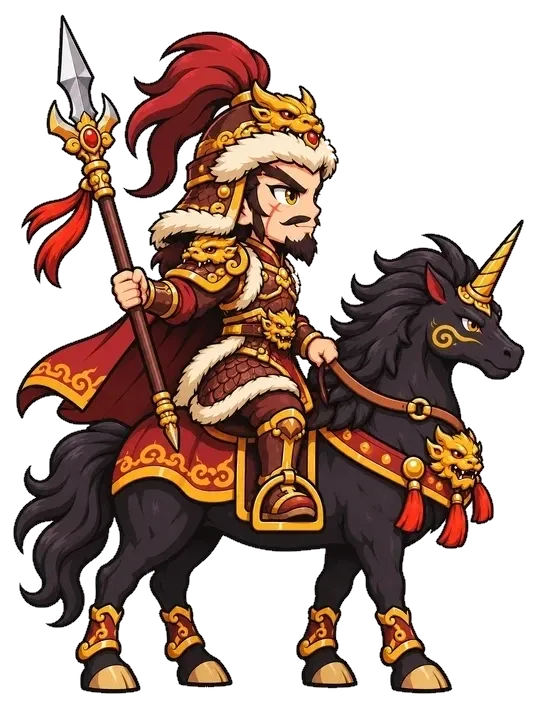
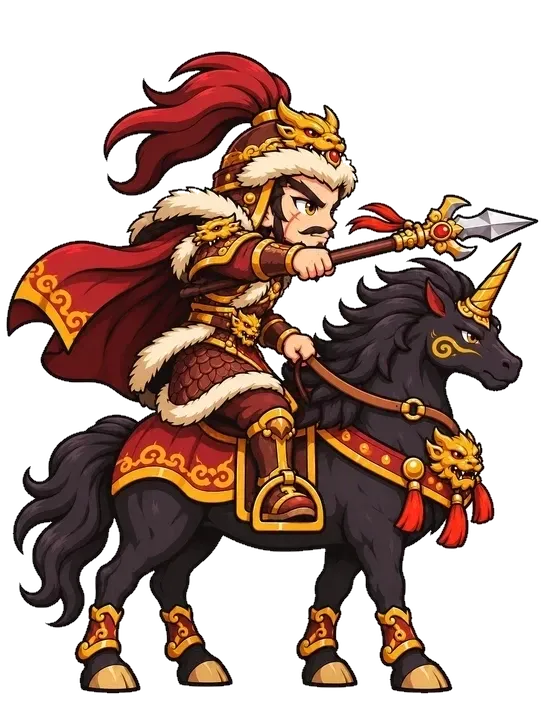
Ve lai 7 dang that cho Truong Khue (1 chan tren ngua)

diff --git a/art/poses/hmeta.js b/art/poses/hmeta.js
@@ -1,1 +1,1 @@
-window.HPOSE = {"loichantu": {"H": 1201.8, "gnd": [660, 1395], "top": 0.015}, "thohanhton": {"H": 1196.0, "gnd": [512, 1387], "top": 0.033}, "thaiatchannhan": {"H": 1185.3, "gnd": [573, 1335], "top": 0.079}, "thancongbao": {"H": 1182.4, "gnd": [657, 1321], "top": 0.072}, "longnu": {"H": 1303.7, "gnd": [567, 1398], "top": 0.039}, "kimgiac": {"H": 1298.8, "gnd": [578, 1309], "top": 0.0}, "tieubachlong": {"H": 1265.8, "gnd": [517, 1412], "top": 0.018}, "thaibachkimtinh": {"H": 1135.9, "gnd": [604, 1321], "top": 0.106}, "culinhthan": {"H": 1254.2, "gnd": [575, 1394], "top": 0.026}, "hoangphongquai": {"H": 1087.4, "gnd": [479, 1364], "top": 0.026}, "khuongtanha": {"H": 1377.4, "gnd": [570, 1429], "top": 0.008}, "trieucongminh": {"H": 1368.7, "gnd": [572, 1420], "top": 0.007}, "bachcot": {"H": 1371.6, "gnd": [574, 1423], "top": 0.008}, "bodetosu": {"H": 1372.5, "gnd": [563, 1426], "top": 0.01}, "tranguyentu": {"H": 1327.9, "gnd": [551, 1403], "top": 0.025}, "hoangphiho": {"H": 1167.9, "gnd": [519, 1358], "top": 0.064}, "dienmau": {"H": 1308.5, "gnd": [543, 1398], "top": 0.035}, "thanhnguutinh": {"H": 1287.2, "gnd": [502, 1387], "top": 0.043}, "longvuong": {"H": 1262.0, "gnd": [591, 1418], "top": 0.01}, "dangthienngoc": {"H": 1246.5, "gnd": [535, 1378], "top": 0.066}, "kimtra": {"H": 1344.4, "gnd": [540, 1409], "top": 0.017}, "hachhung": {"H": 1286.2, "gnd": [533, 1387], "top": 0.046}, "thodia": {"H": 1212.5, "gnd": [479, 1341], "top": 0.066}, "giaochu": {"H": 1034.0, "gnd": [506, 1437], "top": 0.191}, "khongtuyen": {"H": 1276.5, "gnd": [568, 1423], "top": 0.019}, "nhiendang": {"H": 1207.6, "gnd": [467, 1367], "top": 0.026}, "thaisu": {"H": 1356.1, "gnd": [556, 1418], "top": 0.015}, "hoangmi": {"H": 1227.0, "gnd": [528, 1367], "top": 0.072}, "vanthu": {"H": 1276.5, "gnd": [538, 1395], "top": 0.015}, "quynhtieu": {"H": 1240.6, "gnd": [517, 1367], "top": 0.064}, "hoangthienhoa": {"H": 1375.5, "gnd": [555, 1432], "top": 0.012}, "viho": {"H": 1386.1, "gnd": [563, 1435], "top": 0.006}, "thachco": {"H": 1165.9, "gnd": [445, 1347], "top": 0.102}, "giaochu_s2": {"H": 1038, "gnd": [516, 1447], "top": 0.04}, "thailaoquan_s2": {"H": 1107, "gnd": [533, 1439], "top": 0.113}, "thailaoquan": {"H": 1106.8, "gnd": [534, 1439], "top": 0.171}, "hongquan": {"H": 1275.5, "gnd": [522, 1412], "top": 0.018}, "nguyenthuy": {"H": 1010.7, "gnd": [551, 1423], "top": 0.198}, "ngochoang": {"H": 1327.9, "gnd": [519, 1417], "top": 0.021}, "dilac": {"H": 1022.4, "gnd": [516, 1278], "top": 0.135}, "quangthanh": {"H": 1329.9, "gnd": [502, 1423], "top": 0.014}, "kimlinh": {"H": 1304.6, "gnd": [510, 1412], "top": 0.012}, "chanvu": {"H": 1107.7, "gnd": [557, 1338], "top": 0.086}, "vuongmau": {"H": 1330.8, "gnd": [502, 1417], "top": 0.011}, "phohien": {"H": 1318.2, "gnd": [465, 1418], "top": 0.003}, "daibang": {"H": 1179.5, "gnd": [489, 1361], "top": 0.04}, "ngocdinh": {"H": 1336.7, "gnd": [556, 1423], "top": 0.007}, "hoangbao": {"H": 1303.7, "gnd": [471, 1429], "top": 0.022}, "bachnhan": {"H": 1330.8, "gnd": [550, 1423], "top": 0.011}, "hattu": {"H": 1327.0, "gnd": [494, 1401], "top": 0.019}, "moctra": {"H": 1167.9, "gnd": [553, 1344], "top": 0.081}, "nganggiac": {"H": 1266.8, "gnd": [563, 1384], "top": 0.035}, "loicong": {"H": 1243.5, "gnd": [529, 1375], "top": 0.036}, "ngoctho": {"H": 1308.5, "gnd": [528, 1415], "top": 0.006}, "maonhat": {"H": 1223.2, "gnd": [535, 1360], "top": 0.028}, "linhcam": {"H": 1172.7, "gnd": [642, 1361], "top": 0.072}, "ngokhong": {"H": 1359.9, "gnd": [580, 1400], "top": 0.019}, "batgioi": {"H": 1476.0, "gnd": [615, 1421], "top": 0.017}, "nata": {"H": 1447.8, "gnd": [560, 1418], "top": 0.0}, "ngumavuong": {"H": 1306.8, "gnd": [620, 1410], "top": 0.012}, "honghainhi": {"H": 1260.4, "gnd": [560, 1405], "top": 0.0}, "quanam": {"H": 1144.3, "gnd": [560, 1440], "top": 0.0}, "datky": {"H": 1354.9, "gnd": [560, 1415], "top": 0.008}, "duongtang": {"H": 1434.5, "gnd": [570, 1410], "top": 0.012}, "duongtien": {"H": 1069.7, "gnd": [520, 1295], "top": 0.066}, "vantieu": {"H": 1401.3, "gnd": [560, 1415], "top": 0.006}, "satang": {"H": 1417.9, "gnd": [560, 1415], "top": 0.012}, "thietphien": {"H": 1369.8, "gnd": [560, 1416], "top": 0.015}, "litinh": {"H": 1353.2, "gnd": [560, 1416], "top": 0.007}, "hangnga": {"H": 1343.3, "gnd": [560, 1415], "top": 0.008}, "nuoa": {"H": 1243.5, "gnd": [532, 1361], "top": 0.023}, "tiepdan": {"H": 1124.2, "gnd": [545, 1359], "top": 0.075}, "chuande": {"H": 1261.0, "gnd": [458, 1425], "top": 0.039}, "nhulai": {"H": 1248.4, "gnd": [543, 1441], "top": 0.029}, "phuchy": {"H": 1245.5, "gnd": [496, 1381], "top": 0.04}, "thannong": {"H": 1194.1, "gnd": [496, 1358], "top": 0.066}, "hienvien": {"H": 1241.6, "gnd": [601, 1423], "top": 0.021}, "dabao": {"H": 1320.2, "gnd": [510, 1398], "top": 0.012}, "lucap": {"H": 1328.9, "gnd": [498, 1421], "top": 0.014}, "namcuc": {"H": 1113.6, "gnd": [599, 1299], "top": 0.052}, "diatang": {"H": 1133.0, "gnd": [581, 1319], "top": 0.073}, "lucnhi": {"H": 1300.8, "gnd": [500, 1398], "top": 0.025}, "cuukho": {"H": 1355.1, "gnd": [528, 1434], "top": 0.011}, "thanhsu": {"H": 1150.4, "gnd": [607, 1364], "top": 0.059}, "bachtuong": {"H": 1220.3, "gnd": [511, 1375], "top": 0.028}, "cuulinh": {"H": 1290.1, "gnd": [506, 1392], "top": 0.017}, "cuudau": {"H": 1291.1, "gnd": [535, 1397], "top": 0.03}, "bichtieu": {"H": 1245.5, "gnd": [501, 1370], "top": 0.037}, "magia": {"H": 1187.3, "gnd": [471, 1344], "top": 0.069}, "angiao": {"H": 1277.5, "gnd": [532, 1406], "top": 0.018}, "duongnham": {"H": 1256.1, "gnd": [448, 1387], "top": 0.036}, "vienhong": {"H": 1336.7, "gnd": [525, 1417], "top": 0.018}, "xichtinh": {"H": 1269.7, "gnd": [468, 1392], "top": 0.044}, "thanhhu": {"H": 1217.3, "gnd": [520, 1349], "top": 0.054}, "culuuton": {"H": 1240.6, "gnd": [481, 1381], "top": 0.047}, "linhcat": {"H": 1293.0, "gnd": [497, 1389], "top": 0.006}, "bilam": {"H": 1318.2, "gnd": [562, 1415], "top": 0.015}, "donghoa": {"H": 1295.0, "gnd": [532, 1403], "top": 0.015}, "vantrungtu": {"H": 1219.3, "gnd": [454, 1364], "top": 0.035}, "vuonglinhquan": {"H": 1358.0, "gnd": [575, 1423], "top": 0.012}, "hoangthientuong": {"H": 1312.4, "gnd": [532, 1406], "top": 0.028}, "nhuychantien": {"H": 1230.0, "gnd": [509, 1375], "top": 0.052}, "holuc": {"H": 1270.7, "gnd": [522, 1398], "top": 0.048}, "diadung": {"H": 1212.5, "gnd": [526, 1366], "top": 0.065}, "nhentinh": {"H": 1307.6, "gnd": [449, 1417], "top": 0.019}, "tenguu": {"H": 1149.5, "gnd": [603, 1324], "top": 0.079}, "ngaobinh": {"H": 1213.5, "gnd": [546, 1381], "top": 0.019}, "vodang": {"H": 1264.9, "gnd": [648, 1398], "top": 0.023}, "hongquan_s2": {"H": 1278.5, "gnd": [520, 1412], "top": 0.019}, "nguyenthuy_s2": {"H": 1105, "gnd": [551, 1447], "top": 0.106}, "nuoa_s2": {"H": 1247.4, "gnd": [530, 1361], "top": 0.022}, "tiepdan_s2": {"H": 1125.2, "gnd": [544, 1359], "top": 0.091}, "chuande_s2": {"H": 1269, "gnd": [460, 1423], "top": 0.029}, "nhulai_s2": {"H": 1248, "gnd": [540, 1447], "top": 0.028}, "loctinh": {"H": 1191.2, "gnd": [502, 1338], "top": 0.051}, "dalong": {"H": 1223.2, "gnd": [480, 1364], "top": 0.052}, "cuuvi": {"H": 1160.1, "gnd": [462, 1352], "top": 0.068}, "hoangsu": {"H": 1199.9, "gnd": [532, 1392], "top": 0.017}, "dethinh": {"H": 1356.1, "gnd": [560, 1435], "top": 0.011}, "thanhmao": {"H": 1300.8, "gnd": [588, 1432], "top": 0.011}, "laongoan": {"H": 1256.1, "gnd": [540, 1392], "top": 0.036}, "quylinh": {"H": 1327.9, "gnd": [515, 1409], "top": 0.017}, "duhoa": {"H": 1259.1, "gnd": [620, 1392], "top": 0.054}, "lunhac": {"H": 1227.0, "gnd": [447, 1397], "top": 0.057}, "hoalinh": {"H": 1184.4, "gnd": [483, 1384], "top": 0.01}, "latuyen": {"H": 1204.7, "gnd": [542, 1381], "top": 0.039}, "anhong": {"H": 1230.9, "gnd": [548, 1375], "top": 0.058}, "kimmaohong": {"H": 1175.6, "gnd": [468, 1349], "top": 0.059}, "nhithapbattu": {"H": 1264.9, "gnd": [536, 1401], "top": 0.019}, "maisonluc": {"H": 1270.7, "gnd": [440, 1381], "top": 0.036}, "thapthienquan": {"H": 1153.3, "gnd": [560, 1327], "top": 0.083}, "cuulongdaotuthanh": {"H": 1113.6, "gnd": [660, 1297], "top": 0.088}, "trinhluan": {"H": 1304.6, "gnd": [488, 1386], "top": 0.022}, "truongkhue": {"H": 1267.8, "gnd": [531, 1389], "top": 0.021}, "hongcam": {"H": 1312.4, "gnd": [546, 1421], "top": 0.017}, "dangcuucong": {"H": 1166.9, "gnd": [593, 1361], "top": 0.091}, "sunghachho": {"H": 1290.1, "gnd": [568, 1395], "top": 0.028}, "thapdienduong": {"H": 1253.2, "gnd": [533, 1375], "top": 0.036}, "nguytrung": {"H": 1200.9, "gnd": [493, 1378], "top": 0.059}, "phucloctho": {"H": 1352.2, "gnd": [530, 1423], "top": 0.015}, "daohanhthientoan": {"H": 1233.8, "gnd": [555, 1395], "top": 0.033}, "linhbaodaiphapsu": {"H": 1307.6, "gnd": [585, 1429], "top": 0.007}, "hoanglongchannhan": {"H": 1276.5, "gnd": [529, 1422], "top": 0.054}, "truongnhidinhquang": {"H": 1210.6, "gnd": [567, 1403], "top": 0.007}, "ovantien": {"H": 1168.8, "gnd": [571, 1355], "top": 0.084}, "thienlynhan": {"H": 1328.9, "gnd": [516, 1403], "top": 0.015}, "truongquephuong": {"H": 1295.0, "gnd": [494, 1378], "top": 0.018}, "manguyen": {"H": 1330.8, "gnd": [549, 1417], "top": 0.018}, "ovanhoa": {"H": 1356.1, "gnd": [551, 1435], "top": 0.008}, "longtuho": {"H": 1146.5, "gnd": [464, 1341], "top": 0.079}, "tayhailongvuong": {"H": 1251.3, "gnd": [544, 1389], "top": 0.015}, "nambaihailongvuong": {"H": 1286.2, "gnd": [524, 1395], "top": 0.019}, "tudainguyensoai": {"H": 1323.1, "gnd": [628, 1418], "top": 0.023}, "cuudieutinhquan": {"H": 1242.6, "gnd": [501, 1381], "top": 0.058}, "thatbatlahan": {"H": 1132.0, "gnd": [577, 1338], "top": 0.05}, "osaothienseu": {"H": 1281.4, "gnd": [505, 1412], "top": 0.004}, "anan": {"H": 1203.8, "gnd": [484, 1358], "top": 0.076}, "vanthanhlongvuong": {"H": 1252.3, "gnd": [528, 1370], "top": 0.033}, "thatdaithanh": {"H": 1235.8, "gnd": [528, 1380], "top": 0.044}, "dochanchannhan": {"H": 1240.6, "gnd": [561, 1367], "top": 0.044}, "tuythithattien": {"H": 1284.3, "gnd": [544, 1403], "top": 0.011}, "dunguyen": {"H": 1189.2, "gnd": [484, 1364], "top": 0.077}, "khaudan": {"H": 1247.4, "gnd": [554, 1341], "top": 0.032}, "handoclong": {"H": 1290.1, "gnd": [511, 1406], "top": 0.039}, "phonglam": {"H": 1174.7, "gnd": [573, 1364], "top": 0.068}, "tanhoan": {"H": 1178.5, "gnd": [640, 1364], "top": 0.081}, "lucdinhlucgiap": {"H": 1138.8, "gnd": [515, 1313], "top": 0.068}, "tycan": {"H": 1171.8, "gnd": [536, 1323], "top": 0.075}, "toho": {"H": 1132.0, "gnd": [462, 1308], "top": 0.054}, "hoangcon": {"H": 1145.6, "gnd": [519, 1305], "top": 0.08}};
+window.HPOSE = {"loichantu": {"H": 1201.8, "gnd": [660, 1395], "top": 0.015}, "thohanhton": {"H": 1196.0, "gnd": [512, 1387], "top": 0.033}, "thaiatchannhan": {"H": 1185.3, "gnd": [573, 1335], "top": 0.079}, "thancongbao": {"H": 1182.4, "gnd": [657, 1321], "top": 0.072}, "longnu": {"H": 1303.7, "gnd": [567, 1398], "top": 0.039}, "kimgiac": {"H": 1298.8, "gnd": [578, 1309], "top": 0.0}, "tieubachlong": {"H": 1265.8, "gnd": [517, 1412], "top": 0.018}, "thaibachkimtinh": {"H": 1135.9, "gnd": [604, 1321], "top": 0.106}, "culinhthan": {"H": 1254.2, "gnd": [575, 1394], "top": 0.026}, "hoangphongquai": {"H": 1087.4, "gnd": [479, 1364], "top": 0.026}, "khuongtanha": {"H": 1377.4, "gnd": [570, 1429], "top": 0.008}, "trieucongminh": {"H": 1368.7, "gnd": [572, 1420], "top": 0.007}, "bachcot": {"H": 1371.6, "gnd": [574, 1423], "top": 0.008}, "bodetosu": {"H": 1372.5, "gnd": [563, 1426], "top": 0.01}, "tranguyentu": {"H": 1327.9, "gnd": [551, 1403], "top": 0.025}, "hoangphiho": {"H": 1167.9, "gnd": [519, 1358], "top": 0.064}, "dienmau": {"H": 1308.5, "gnd": [543, 1398], "top": 0.035}, "thanhnguutinh": {"H": 1287.2, "gnd": [502, 1387], "top": 0.043}, "longvuong": {"H": 1262.0, "gnd": [591, 1418], "top": 0.01}, "dangthienngoc": {"H": 1246.5, "gnd": [535, 1378], "top": 0.066}, "kimtra": {"H": 1344.4, "gnd": [540, 1409], "top": 0.017}, "hachhung": {"H": 1286.2, "gnd": [533, 1387], "top": 0.046}, "thodia": {"H": 1212.5, "gnd": [479, 1341], "top": 0.066}, "giaochu": {"H": 1034.0, "gnd": [506, 1437], "top": 0.191}, "khongtuyen": {"H": 1276.5, "gnd": [568, 1423], "top": 0.019}, "nhiendang": {"H": 1207.6, "gnd": [467, 1367], "top": 0.026}, "thaisu": {"H": 1356.1, "gnd": [556, 1418], "top": 0.015}, "hoangmi": {"H": 1227.0, "gnd": [528, 1367], "top": 0.072}, "vanthu": {"H": 1276.5, "gnd": [538, 1395], "top": 0.015}, "quynhtieu": {"H": 1240.6, "gnd": [517, 1367], "top": 0.064}, "hoangthienhoa": {"H": 1375.5, "gnd": [555, 1432], "top": 0.012}, "viho": {"H": 1386.1, "gnd": [563, 1435], "top": 0.006}, "thachco": {"H": 1165.9, "gnd": [445, 1347], "top": 0.102}, "giaochu_s2": {"H": 1038, "gnd": [516, 1447], "top": 0.04}, "thailaoquan_s2": {"H": 1107, "gnd": [533, 1439], "top": 0.113}, "thailaoquan": {"H": 1106.8, "gnd": [534, 1439], "top": 0.171}, "hongquan": {"H": 1275.5, "gnd": [522, 1412], "top": 0.018}, "nguyenthuy": {"H": 1010.7, "gnd": [551, 1423], "top": 0.198}, "ngochoang": {"H": 1327.9, "gnd": [519, 1417], "top": 0.021}, "dilac": {"H": 1022.4, "gnd": [516, 1278], "top": 0.135}, "quangthanh": {"H": 1329.9, "gnd": [502, 1423], "top": 0.014}, "kimlinh": {"H": 1304.6, "gnd": [510, 1412], "top": 0.012}, "chanvu": {"H": 1107.7, "gnd": [557, 1338], "top": 0.086}, "vuongmau": {"H": 1330.8, "gnd": [502, 1417], "top": 0.011}, "phohien": {"H": 1318.2, "gnd": [465, 1418], "top": 0.003}, "daibang": {"H": 1179.5, "gnd": [489, 1361], "top": 0.04}, "ngocdinh": {"H": 1336.7, "gnd": [556, 1423], "top": 0.007}, "hoangbao": {"H": 1303.7, "gnd": [471, 1429], "top": 0.022}, "bachnhan": {"H": 1330.8, "gnd": [550, 1423], "top": 0.011}, "hattu": {"H": 1327.0, "gnd": [494, 1401], "top": 0.019}, "moctra": {"H": 1167.9, "gnd": [553, 1344], "top": 0.081}, "nganggiac": {"H": 1266.8, "gnd": [563, 1384], "top": 0.035}, "loicong": {"H": 1243.5, "gnd": [529, 1375], "top": 0.036}, "ngoctho": {"H": 1308.5, "gnd": [528, 1415], "top": 0.006}, "maonhat": {"H": 1223.2, "gnd": [535, 1360], "top": 0.028}, "linhcam": {"H": 1172.7, "gnd": [642, 1361], "top": 0.072}, "ngokhong": {"H": 1359.9, "gnd": [580, 1400], "top": 0.019}, "batgioi": {"H": 1476.0, "gnd": [615, 1421], "top": 0.017}, "nata": {"H": 1447.8, "gnd": [560, 1418], "top": 0.0}, "ngumavuong": {"H": 1306.8, "gnd": [620, 1410], "top": 0.012}, "honghainhi": {"H": 1260.4, "gnd": [560, 1405], "top": 0.0}, "quanam": {"H": 1144.3, "gnd": [560, 1440], "top": 0.0}, "datky": {"H": 1354.9, "gnd": [560, 1415], "top": 0.008}, "duongtang": {"H": 1434.5, "gnd": [570, 1410], "top": 0.012}, "duongtien": {"H": 1069.7, "gnd": [520, 1295], "top": 0.066}, "vantieu": {"H": 1401.3, "gnd": [560, 1415], "top": 0.006}, "satang": {"H": 1417.9, "gnd": [560, 1415], "top": 0.012}, "thietphien": {"H": 1369.8, "gnd": [560, 1416], "top": 0.015}, "litinh": {"H": 1353.2, "gnd": [560, 1416], "top": 0.007}, "hangnga": {"H": 1343.3, "gnd": [560, 1415], "top": 0.008}, "nuoa": {"H": 1243.5, "gnd": [532, 1361], "top": 0.023}, "tiepdan": {"H": 1124.2, "gnd": [545, 1359], "top": 0.075}, "chuande": {"H": 1261.0, "gnd": [458, 1425], "top": 0.039}, "nhulai": {"H": 1248.4, "gnd": [543, 1441], "top": 0.029}, "phuchy": {"H": 1245.5, "gnd": [496, 1381], "top": 0.04}, "thannong": {"H": 1194.1, "gnd": [496, 1358], "top": 0.066}, "hienvien": {"H": 1241.6, "gnd": [601, 1423], "top": 0.021}, "dabao": {"H": 1320.2, "gnd": [510, 1398], "top": 0.012}, "lucap": {"H": 1328.9, "gnd": [498, 1421], "top": 0.014}, "namcuc": {"H": 1113.6, "gnd": [599, 1299], "top": 0.052}, "diatang": {"H": 1133.0, "gnd": [581, 1319], "top": 0.073}, "lucnhi": {"H": 1300.8, "gnd": [500, 1398], "top": 0.025}, "cuukho": {"H": 1355.1, "gnd": [528, 1434], "top": 0.011}, "thanhsu": {"H": 1150.4, "gnd": [607, 1364], "top": 0.059}, "bachtuong": {"H": 1220.3, "gnd": [511, 1375], "top": 0.028}, "cuulinh": {"H": 1290.1, "gnd": [506, 1392], "top": 0.017}, "cuudau": {"H": 1291.1, "gnd": [535, 1397], "top": 0.03}, "bichtieu": {"H": 1245.5, "gnd": [501, 1370], "top": 0.037}, "magia": {"H": 1187.3, "gnd": [471, 1344], "top": 0.069}, "angiao": {"H": 1277.5, "gnd": [532, 1406], "top": 0.018}, "duongnham": {"H": 1256.1, "gnd": [448, 1387], "top": 0.036}, "vienhong": {"H": 1336.7, "gnd": [525, 1417], "top": 0.018}, "xichtinh": {"H": 1269.7, "gnd": [468, 1392], "top": 0.044}, "thanhhu": {"H": 1217.3, "gnd": [520, 1349], "top": 0.054}, "culuuton": {"H": 1240.6, "gnd": [481, 1381], "top": 0.047}, "linhcat": {"H": 1293.0, "gnd": [497, 1389], "top": 0.006}, "bilam": {"H": 1318.2, "gnd": [562, 1415], "top": 0.015}, "donghoa": {"H": 1295.0, "gnd": [532, 1403], "top": 0.015}, "vantrungtu": {"H": 1219.3, "gnd": [454, 1364], "top": 0.035}, "vuonglinhquan": {"H": 1358.0, "gnd": [575, 1423], "top": 0.012}, "hoangthientuong": {"H": 1312.4, "gnd": [532, 1406], "top": 0.028}, "nhuychantien": {"H": 1230.0, "gnd": [509, 1375], "top": 0.052}, "holuc": {"H": 1270.7, "gnd": [522, 1398], "top": 0.048}, "diadung": {"H": 1212.5, "gnd": [526, 1366], "top": 0.065}, "nhentinh": {"H": 1307.6, "gnd": [449, 1417], "top": 0.019}, "tenguu": {"H": 1149.5, "gnd": [603, 1324], "top": 0.079}, "ngaobinh": {"H": 1213.5, "gnd": [546, 1381], "top": 0.019}, "vodang": {"H": 1264.9, "gnd": [648, 1398], "top": 0.023}, "hongquan_s2": {"H": 1278.5, "gnd": [520, 1412], "top": 0.019}, "nguyenthuy_s2": {"H": 1105, "gnd": [551, 1447], "top": 0.106}, "nuoa_s2": {"H": 1247.4, "gnd": [530, 1361], "top": 0.022}, "tiepdan_s2": {"H": 1125.2, "gnd": [544, 1359], "top": 0.091}, "chuande_s2": {"H": 1269, "gnd": [460, 1423], "top": 0.029}, "nhulai_s2": {"H": 1248, "gnd": [540, 1447], "top": 0.028}, "loctinh": {"H": 1191.2, "gnd": [502, 1338], "top": 0.051}, "dalong": {"H": 1223.2, "gnd": [480, 1364], "top": 0.052}, "cuuvi": {"H": 1160.1, "gnd": [462, 1352], "top": 0.068}, "hoangsu": {"H": 1199.9, "gnd": [532, 1392], "top": 0.017}, "dethinh": {"H": 1356.1, "gnd": [560, 1435], "top": 0.011}, "thanhmao": {"H": 1300.8, "gnd": [588, 1432], "top": 0.011}, "laongoan": {"H": 1256.1, "gnd": [540, 1392], "top": 0.036}, "quylinh": {"H": 1327.9, "gnd": [515, 1409], "top": 0.017}, "duhoa": {"H": 1259.1, "gnd": [620, 1392], "top": 0.054}, "lunhac": {"H": 1227.0, "gnd": [447, 1397], "top": 0.057}, "hoalinh": {"H": 1184.4, "gnd": [483, 1384], "top": 0.01}, "latuyen": {"H": 1204.7, "gnd": [542, 1381], "top": 0.039}, "anhong": {"H": 1230.9, "gnd": [548, 1375], "top": 0.058}, "kimmaohong": {"H": 1175.6, "gnd": [468, 1349], "top": 0.059}, "nhithapbattu": {"H": 1264.9, "gnd": [536, 1401], "top": 0.019}, "maisonluc": {"H": 1270.7, "gnd": [440, 1381], "top": 0.036}, "thapthienquan": {"H": 1153.3, "gnd": [560, 1327], "top": 0.083}, "cuulongdaotuthanh": {"H": 1113.6, "gnd": [660, 1297], "top": 0.088}, "trinhluan": {"H": 1304.6, "gnd": [488, 1386], "top": 0.022}, "truongkhue": {"H": 1267.8, "gnd": [531, 1389], "top": 0.044}, "hongcam": {"H": 1312.4, "gnd": [546, 1421], "top": 0.017}, "dangcuucong": {"H": 1166.9, "gnd": [593, 1361], "top": 0.091}, "sunghachho": {"H": 1290.1, "gnd": [568, 1395], "top": 0.028}, "thapdienduong": {"H": 1253.2, "gnd": [533, 1375], "top": 0.036}, "nguytrung": {"H": 1200.9, "gnd": [493, 1378], "top": 0.059}, "phucloctho": {"H": 1352.2, "gnd": [530, 1423], "top": 0.015}, "daohanhthientoan": {"H": 1233.8, "gnd": [555, 1395], "top": 0.033}, "linhbaodaiphapsu": {"H": 1307.6, "gnd": [585, 1429], "top": 0.007}, "hoanglongchannhan": {"H": 1276.5, "gnd": [529, 1422], "top": 0.054}, "truongnhidinhquang": {"H": 1210.6, "gnd": [567, 1403], "top": 0.007}, "ovantien": {"H": 1168.8, "gnd": [571, 1355], "top": 0.084}, "thienlynhan": {"H": 1328.9, "gnd": [516, 1403], "top": 0.015}, "truongquephuong": {"H": 1295.0, "gnd": [494, 1378], "top": 0.018}, "manguyen": {"H": 1330.8, "gnd": [549, 1417], "top": 0.018}, "ovanhoa": {"H": 1356.1, "gnd": [551, 1435], "top": 0.008}, "longtuho": {"H": 1146.5, "gnd": [464, 1341], "top": 0.079}, "tayhailongvuong": {"H": 1251.3, "gnd": [544, 1389], "top": 0.015}, "nambaihailongvuong": {"H": 1286.2, "gnd": [524, 1395], "top": 0.019}, "tudainguyensoai": {"H": 1323.1, "gnd": [628, 1418], "top": 0.023}, "cuudieutinhquan": {"H": 1242.6, "gnd": [501, 1381], "top": 0.058}, "thatbatlahan": {"H": 1132.0, "gnd": [577, 1338], "top": 0.05}, "osaothienseu": {"H": 1281.4, "gnd": [505, 1412], "top": 0.004}, "anan": {"H": 1203.8, "gnd": [484, 1358], "top": 0.076}, "vanthanhlongvuong": {"H": 1252.3, "gnd": [528, 1370], "top": 0.033}, "thatdaithanh": {"H": 1235.8, "gnd": [528, 1380], "top": 0.044}, "dochanchannhan": {"H": 1240.6, "gnd": [561, 1367], "top": 0.044}, "tuythithattien": {"H": 1284.3, "gnd": [544, 1403], "top": 0.011}, "dunguyen": {"H": 1189.2, "gnd": [484, 1364], "top": 0.077}, "khaudan": {"H": 1247.4, "gnd": [554, 1341], "top": 0.032}, "handoclong": {"H": 1290.1, "gnd": [511, 1406], "top": 0.039}, "phonglam": {"H": 1174.7, "gnd": [573, 1364], "top": 0.068}, "tanhoan": {"H": 1178.5, "gnd": [640, 1364], "top": 0.081}, "lucdinhlucgiap": {"H": 1138.8, "gnd": [515, 1313], "top": 0.068}, "tycan": {"H": 1171.8, "gnd": [536, 1323], "top": 0.075}, "toho": {"H": 1132.0, "gnd": [462, 1308], "top": 0.054}, "hoangcon": {"H": 1145.6, "gnd": [519, 1305], "top": 0.08}};

diff --git a/index.html b/index.html
@@ -14,26 +14,26 @@
 <link rel="preconnect" href="https://fonts.googleapis.com">
 <link rel="preconnect" href="https://fonts.gstatic.com" crossorigin>
 <link href="https://fonts.googleapis.com/css2?family=Baloo+2:wght@500;600;700;800&family=Dancing+Script:wght@700&display=swap" rel="stylesheet">
-<link rel="stylesheet" href="css/style.css?v=1795770183">
-<link rel="stylesheet" href="css/themes.css?v=1795770183">
+<link rel="stylesheet" href="css/style.css?v=1795771045">
+<link rel="stylesheet" href="css/themes.css?v=1795771045">
 </head>
 <body>
 <div id="app">
   <canvas id="game"></canvas>
   <div id="ui"></div>
 </div>
-<script src="js/data.js?v=1795770183"></script><script src="art/enemies/meta.js?v=1795770183"></script><script src="art/ssrfx/aura_c.js?v=1795770183"></script>
-  <script src="art/poses/hmeta.js?v=1795770183"></script>
-<script src="js/art.js?v=1795770183"></script>
-<script src="art/anim/manifest.js?v=1795770183"></script>
-<script src="js/rig.js?v=1795770183"></script>
-<script src="art/rig/all.js?v=1795770183"></script>
-<script src="js/layered.js?v=1795770183"></script>
-<script src="art/mesh/index.js?v=1795770183"></script>
-<script src="js/meshrig.js?v=1795770183"></script>
-<script src="art/skel/index.js?v=1795770183"></script>
-<script src="js/skel.js?v=1795770183"></script>
-<script src="js/vfx.js?v=1795770183"></script>
-<script src="js/main.js?v=1795770183"></script>
+<script src="js/data.js?v=1795771045"></script><script src="art/enemies/meta.js?v=1795771045"></script><script src="art/ssrfx/aura_c.js?v=1795771045"></script>
+  <script src="art/poses/hmeta.js?v=1795771045"></script>
+<script src="js/art.js?v=1795771045"></script>
+<script src="art/anim/manifest.js?v=1795771045"></script>
+<script src="js/rig.js?v=1795771045"></script>
+<script src="art/rig/all.js?v=1795771045"></script>
+<script src="js/layered.js?v=1795771045"></script>
+<script src="art/mesh/index.js?v=1795771045"></script>
+<script src="js/meshrig.js?v=1795771045"></script>
+<script src="art/skel/index.js?v=1795771045"></script>
+<script src="js/skel.js?v=1795771045"></script>
+<script src="js/vfx.js?v=1795771045"></script>
+<script src="js/main.js?v=1795771045"></script>
 </body>
 </html>
